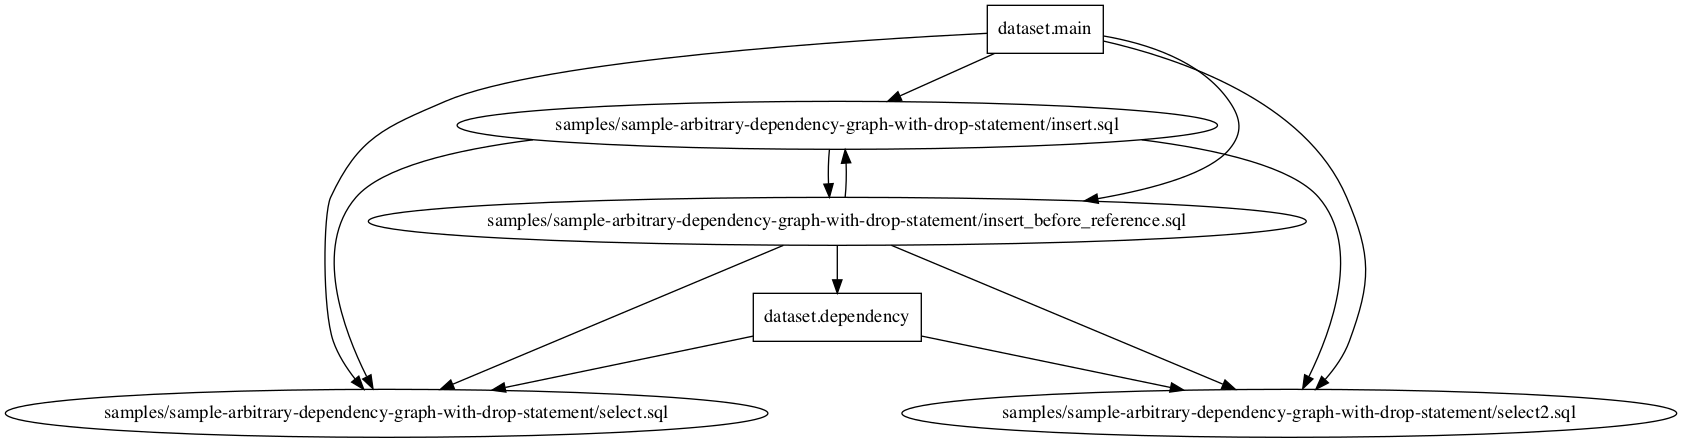
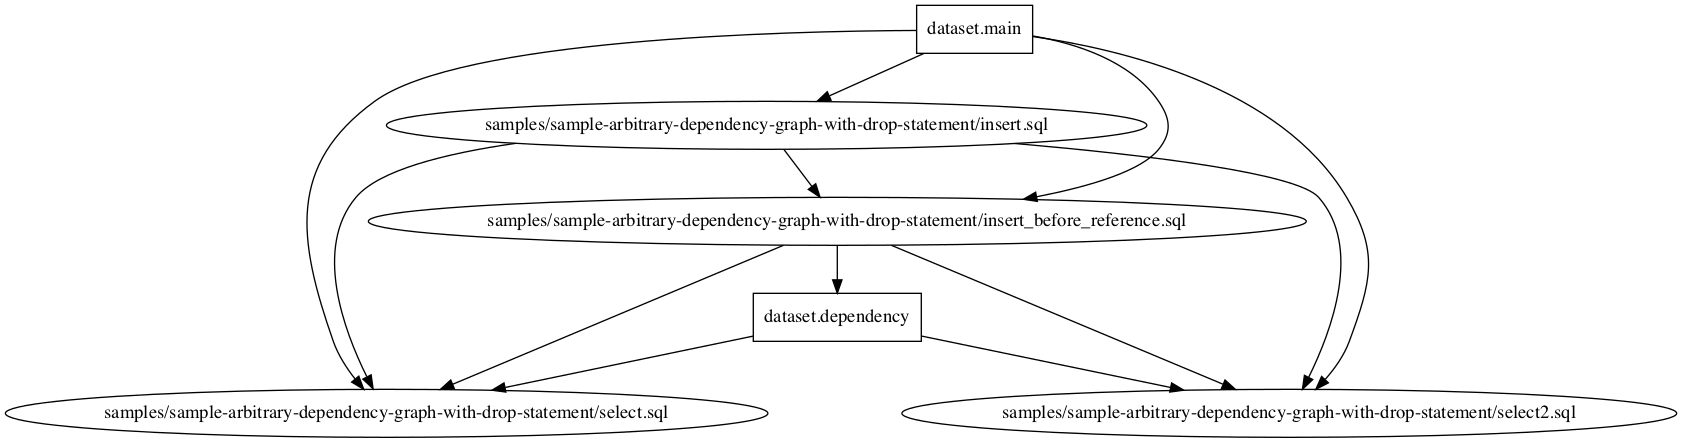
Fix cycles caused by between mutations

diff --git a/alphasql/alphadag.cc b/alphasql/alphadag.cc
@@ -90,40 +90,58 @@ int main(int argc, char* argv[]) {
     if (side_effect_first) {
       auto inserts_it = table_queries.inserts.begin();
       while (inserts_it != table_queries.inserts.end()) {
+        // Prevent self reference
+        auto others_it = table_queries.others.begin();
+        while (others_it != table_queries.others.end()) {
+          if (*others_it == *inserts_it) {
+            others_it = table_queries.others.erase(others_it);
+          } else {
+            ++others_it;
+          }
+        }
         if (*inserts_it == table_queries.create) {
           inserts_it = table_queries.inserts.erase(inserts_it);
         } else {
-          alphasql::UpdateEdgesWithoutSelf(depends_on, table_queries.others, *inserts_it);
+          alphasql::UpdateEdges(depends_on, table_queries.others, *inserts_it);
           ++inserts_it;
         }
       }
       auto updates_it = table_queries.updates.begin();
       while (updates_it != table_queries.updates.end()) {
+        // Prevent self reference
+        auto others_it = table_queries.others.begin();
+        while (others_it != table_queries.others.end()) {
+          if (*others_it == *updates_it) {
+            others_it = table_queries.others.erase(others_it);
+          } else {
+            ++others_it;
+          }
+        }
         if (*updates_it == table_queries.create) {
           updates_it = table_queries.updates.erase(updates_it);
         } else {
-          alphasql::UpdateEdgesWithoutSelf(depends_on, table_queries.others, *updates_it);
+          alphasql::UpdateEdges(depends_on, table_queries.others, *updates_it);
           ++updates_it;
         }
       }
       if (with_tables) {
-        alphasql::UpdateEdgesWithoutSelf(depends_on, table_queries.inserts, table_name);
-        alphasql::UpdateEdgesWithoutSelf(depends_on, table_queries.updates, table_name);
-        alphasql::UpdateEdgesWithoutSelf(depends_on, table_queries.others, table_name);
-        alphasql::UpdateEdgesWithoutSelf(depends_on, {table_name}, table_queries.create);
+        alphasql::UpdateEdges(depends_on, table_queries.inserts, table_name);
+        alphasql::UpdateEdges(depends_on, table_queries.updates, table_name);
+        alphasql::UpdateEdges(depends_on, table_queries.others, table_name);
+        alphasql::UpdateEdges(depends_on, {table_name}, table_queries.create);
         table_vertices.insert(table_name);
       } else {
-        alphasql::UpdateEdgesWithoutSelf(depends_on, table_queries.inserts, table_queries.create);
-        alphasql::UpdateEdgesWithoutSelf(depends_on, table_queries.updates, table_queries.create);
-        alphasql::UpdateEdgesWithoutSelf(depends_on, table_queries.others, table_queries.create);
+        alphasql::UpdateEdges(depends_on, table_queries.inserts, table_queries.create);
+        alphasql::UpdateEdges(depends_on, table_queries.updates, table_queries.create);
+        alphasql::UpdateEdges(depends_on, table_queries.others, table_queries.create);
       }
     } else {
       if (with_tables) {
-        alphasql::UpdateEdgesWithoutSelf(depends_on, table_queries.others, table_name);
-        alphasql::UpdateEdgesWithoutSelf(depends_on, {table_name}, table_queries.create);
+        alphasql::UpdateEdges(depends_on, table_queries.others, table_name);
+        alphasql::UpdateEdges(depends_on, {table_name}, table_queries.create);
         table_vertices.insert(table_name);
       } else {
-        alphasql::UpdateEdgesWithoutSelf(depends_on, table_queries.others, table_queries.create);
+        alphasql::UpdateEdges(depends_on, table_queries.others, table_queries.create);
       }
     }
     if (table_queries.create.empty()) {
@@ -135,11 +153,11 @@ int main(int argc, char* argv[]) {
   std::set<std::string> function_vertices;
   for (auto const& [function_name, function_queries] : function_queries_map) {
     if (with_functions && !function_queries.create.empty()) { // Skip default functions
-      alphasql::UpdateEdgesWithoutSelf(depends_on, function_queries.call, function_name);
-      alphasql::UpdateEdgesWithoutSelf(depends_on, {function_name}, function_queries.create);
+      alphasql::UpdateEdges(depends_on, function_queries.call, function_name);
+      alphasql::UpdateEdges(depends_on, {function_name}, function_queries.create);
       function_vertices.insert(function_name);
     } else {
-      alphasql::UpdateEdgesWithoutSelf(depends_on, function_queries.call, function_queries.create);
+      alphasql::UpdateEdges(depends_on, function_queries.call, function_queries.create);
     }
   }
 

diff --git a/alphasql/dag_lib.h b/alphasql/dag_lib.h
@@ -154,11 +154,10 @@ namespace alphasql {
     return absl::OkStatus();
   }
 
-  void UpdateEdgesWithoutSelf(std::vector<Edge>& depends_on,
+  void UpdateEdges(std::vector<Edge>& depends_on,
                    std::vector<std::string> dependents, std::string parent) {
     if (!dependents.size() || parent.empty()) return;
     for (const std::string& dep : dependents) {
-      if (dep == parent) continue;
       depends_on.push_back(std::make_pair(dep, parent));
     }
   }
